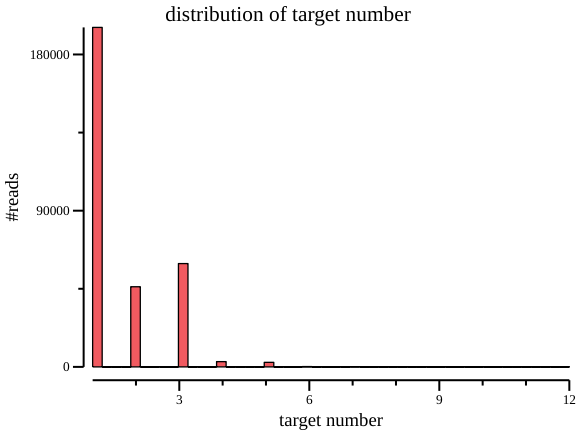
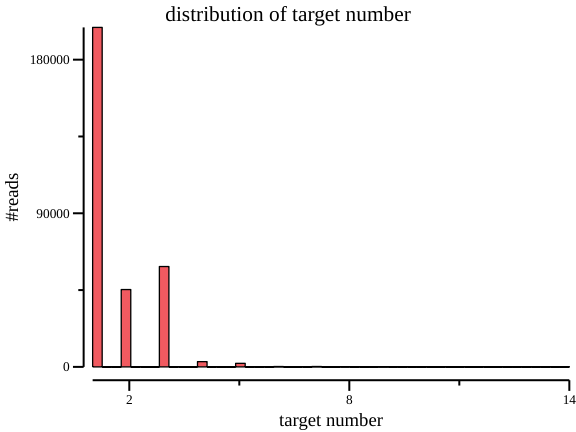
update doc

diff --git a/demo-profiling/analysis.md b/demo-profiling/analysis.md
@@ -1,7 +1,7 @@
 ### Analysis of ambiguous and unambiguous reads
     
     # clean
-    zcat mock2.kmcp.gz  | csvtk rename -C$ -t -f 1 -n query | csvtk uniq -t -f query,target -o t.gz
+    zcat mock.kmcp.gz  | csvtk rename -C$ -t -f 1 -n query | csvtk uniq -t -f query,target -o t.gz
     
     # frequency of the number of hits
     csvtk freq -t -f query -nr t.gz -o t.gz.freq1
@@ -11,11 +11,11 @@
         
     # total number of reads
     csvtk nrow t.gz.freq1
-    307276
+    308839
     
     # number of unambiguous reads
     csvtk nrow t.gz.uniq.reads
-    195601
+    198911
     
     # distribution of target number
     csvtk plot hist -t -f frequency t.gz.freq1 -o t.gz.freq1.hist.png \
@@ -36,21 +36,23 @@ The number of unambiguous reads:
         | csvtk mutate2 -t -n fraction -e '$frequency / ${genome_size}' -w 6 \
         | csvtk csv2md -t
         
-|target         |frequency|species                   |genome-size|fraction|
+|target         |frequency|species                   |genome_size|fraction|
 |:--------------|:--------|:-------------------------|:----------|:-------|
-|GCF_000742135.1|65908    |Klebsiella pneumoniae     |5545784    |0.011884|
-|GCF_000006945.2|57244    |Salmonella enterica       |4951383    |0.011561|
-|GCF_003697165.2|26412    |Escherichia coli          |5034834    |0.005246|
-|GCF_002950215.1|18303    |Shigella flexneri         |4938295    |0.003706|
-|GCF_002949675.1|17294    |Shigella dysenteriae      |4578459    |0.003777|
-|GCF_000392875.1|3322     |Enterococcus faecalis     |2881400    |0.001153|
-|GCF_001544255.1|3012     |Enterococcus faecium      |2484851    |0.001212|
-|GCF_001027105.1|1612     |Staphylococcus aureus     |2782562    |0.000579|
-|GCF_006742205.1|1425     |Staphylococcus epidermidis|2427041    |0.000587|
-|GCF_000017205.1|395      |Pseudomonas aeruginosa    |6588339    |0.000060|
-|GCF_009759685.1|256      |Acinetobacter baumannii   |3990388    |0.000064|
-|GCF_001096185.1|221      |Streptococcus pneumoniae  |2117177    |0.000104|
-|GCF_000148585.2|197      |Streptococcus mitis       |1868883    |0.000105|
+|GCF_000742135.1|63665    |Klebsiella pneumoniae     |5545784    |0.011480|
+|GCF_000006945.2|57300    |Salmonella enterica       |4951383    |0.011573|
+|GCF_003697165.2|27831    |Escherichia coli          |5034834    |0.005528|
+|GCF_002950215.1|17898    |Shigella flexneri         |4938295    |0.003624|
+|GCF_002949675.1|17152    |Shigella dysenteriae      |4578459    |0.003746|
+|GCF_000392875.1|3433     |Enterococcus faecalis     |2881400    |0.001191|
+|GCF_001544255.1|2951     |Enterococcus faecium      |2484851    |0.001188|
+|GCF_900638025.1|2417     |Haemophilus parainfluenzae|2062405    |0.001172|
+|GCF_001457655.1|2182     |Haemophilus influenzae    |1890645    |0.001154|
+|GCF_001027105.1|1599     |Staphylococcus aureus     |2782562    |0.000575|
+|GCF_006742205.1|1445     |Staphylococcus epidermidis|2427041    |0.000595|
+|GCF_000017205.1|391      |Pseudomonas aeruginosa    |6588339    |0.000059|
+|GCF_009759685.1|259      |Acinetobacter baumannii   |3990388    |0.000065|
+|GCF_001096185.1|208      |Streptococcus pneumoniae  |2117177    |0.000098|
+|GCF_000148585.2|180      |Streptococcus mitis       |1868883    |0.000096|
 
 The number of ambiguous reads:
 
@@ -64,15 +66,14 @@ The number of ambiguous reads:
         
 |target                                                                                               |frequency|
 |:----------------------------------------------------------------------------------------------------|:--------|
-|Escherichia coli; Shigella dysenteriae; Shigella flexneri                                            |57564    |
-|Shigella dysenteriae; Shigella flexneri                                                              |22195    |
-|Escherichia coli; Shigella flexneri                                                                  |12888    |
-|Escherichia coli; Shigella dysenteriae                                                               |9224     |
-|Escherichia coli; Klebsiella pneumoniae; Salmonella enterica; Shigella dysenteriae; Shigella flexneri|2610     |
-|Escherichia coli; Salmonella enterica; Shigella dysenteriae; Shigella flexneri                       |1489     |
-|Escherichia coli; Klebsiella pneumoniae; Shigella dysenteriae; Shigella flexneri                     |1404     |
-|Klebsiella pneumoniae; Shigella dysenteriae; Shigella flexneri                                       |821      |
-|Escherichia coli; Klebsiella pneumoniae; Shigella dysenteriae                                        |666      |
-|Escherichia coli; Klebsiella pneumoniae                                                              |602      |
-|Klebsiella pneumoniae; Salmonella enterica                                                           |284      |
-|Klebsiella pneumoniae; Shigella dysenteriae                                                          |203      |
+|Escherichia coli; Shigella dysenteriae; Shigella flexneri                                            |57173    |
+|Shigella dysenteriae; Shigella flexneri                                                              |20811    |
+|Escherichia coli; Shigella flexneri                                                                  |13160    |
+|Escherichia coli; Shigella dysenteriae                                                               |9473     |
+|Escherichia coli; Klebsiella pneumoniae; Salmonella enterica; Shigella dysenteriae; Shigella flexneri|2055     |
+|Escherichia coli; Salmonella enterica; Shigella dysenteriae; Shigella flexneri                       |1719     |
+|Escherichia coli; Klebsiella pneumoniae; Shigella dysenteriae; Shigella flexneri                     |1212     |
+|Escherichia coli; Klebsiella pneumoniae                                                              |638      |
+|Klebsiella pneumoniae; Shigella dysenteriae; Shigella flexneri                                       |587      |
+|Escherichia coli; Klebsiella pneumoniae; Shigella dysenteriae                                        |546      |
+|Klebsiella pneumoniae; Salmonella enterica                                                           |232      |

diff --git a/demo-profiling/README.md b/demo-profiling/README.md
@@ -287,23 +287,23 @@ Profiling results:
         | csvtk cut -t -f ref,taxname,ground_truth,percentage \
         | csvtk csv2md -t
 
-    |ref            |taxname                   |ground_truth|percentage|
-    |:--------------|:-------------------------|:-----------|:---------|
-    |GCF_003697165.2|Escherichia coli          |18.093707   |18.663804 |
-    |GCF_002949675.1|Shigella dysenteriae      |18.094390   |18.201855 |
-    |GCF_000006945.2|Salmonella enterica       |18.093898   |18.143627 |
-    |GCF_000742135.1|Klebsiella pneumoniae     |18.075498   |17.738253 |
-    |GCF_002950215.1|Shigella flexneri         |18.093780   |17.728060 |
-    |GCF_900638025.1|Haemophilus parainfluenzae|1.815273    |1.809292  |
-    |GCF_000392875.1|Enterococcus faecalis     |1.798382    |1.800250  |
-    |GCF_001544255.1|Enterococcus faecium      |1.808651    |1.795723  |
-    |GCF_001457655.1|Haemophilus influenzae    |1.798328    |1.787560  |
-    |GCF_006742205.1|Staphylococcus epidermidis|0.896071    |0.906778  |
-    |GCF_001027105.1|Staphylococcus aureus     |0.889459    |0.881014  |
-    |GCF_000148585.2|Streptococcus mitis       |0.176667    |0.178996  |
-    |GCF_001096185.1|Streptococcus pneumoniae  |0.183016    |0.177453  |
-    |GCF_009759685.1|Acinetobacter baumannii   |0.093004    |0.098158  |
-    |GCF_000017205.1|Pseudomonas aeruginosa    |0.089875    |0.089177  |
+|ref            |taxname                   |ground_truth|percentage|
+|:--------------|:-------------------------|:-----------|:---------|
+|GCF_003697165.2|Escherichia coli          |18.093707   |18.663804 |
+|GCF_002949675.1|Shigella dysenteriae      |18.094390   |18.201855 |
+|GCF_000006945.2|Salmonella enterica       |18.093898   |18.143627 |
+|GCF_000742135.1|Klebsiella pneumoniae     |18.075498   |17.738253 |
+|GCF_002950215.1|Shigella flexneri         |18.093780   |17.728060 |
+|GCF_900638025.1|Haemophilus parainfluenzae|1.815273    |1.809292  |
+|GCF_000392875.1|Enterococcus faecalis     |1.798382    |1.800250  |
+|GCF_001544255.1|Enterococcus faecium      |1.808651    |1.795723  |
+|GCF_001457655.1|Haemophilus influenzae    |1.798328    |1.787560  |
+|GCF_006742205.1|Staphylococcus epidermidis|0.896071    |0.906778  |
+|GCF_001027105.1|Staphylococcus aureus     |0.889459    |0.881014  |
+|GCF_000148585.2|Streptococcus mitis       |0.176667    |0.178996  |
+|GCF_001096185.1|Streptococcus pneumoniae  |0.183016    |0.177453  |
+|GCF_009759685.1|Acinetobacter baumannii   |0.093004    |0.098158  |
+|GCF_000017205.1|Pseudomonas aeruginosa    |0.089875    |0.089177  |
     
 Assessing with [OPAL](https://github.com/CAMI-challenge/OPAL):
 
